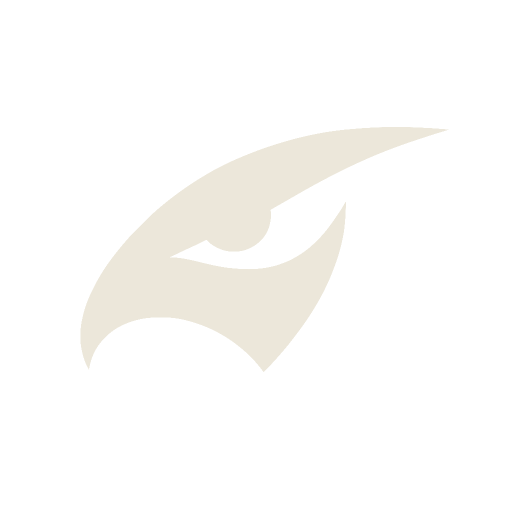
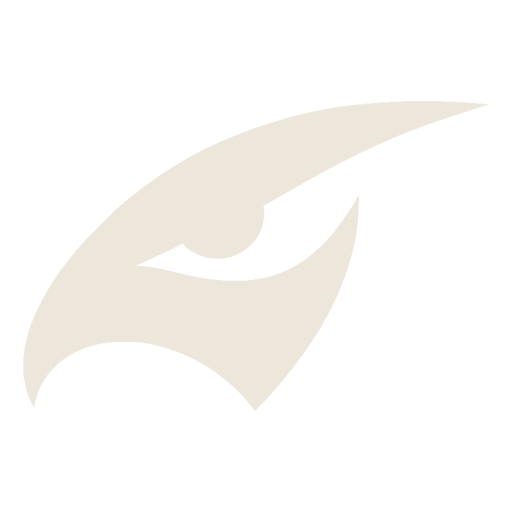
.

Changed region(s): [[0.0312, 0.1875, 0.9375, 0.8125], [0.2812, 0.4688, 0.5938, 0.5625]]

diff --git a/src/screens/auth/authShared.tsx b/src/screens/auth/authShared.tsx
@@ -3,7 +3,7 @@
 // future-provider seam buttons (Google / CAC) — present but deliberately
 // disabled this sprint.
 
-import { useId, useState, type ReactNode } from "react";
+import { useId, useState, type CSSProperties, type ReactNode } from "react";
 import { Logo } from "../../components/Logo";
 import {
   IconAlert,
@@ -31,7 +31,7 @@ export function AuthShell({
     <div className="auth-shell">
       <div className="auth-card reveal">
         <div className="auth-brand">
-          <Logo size={96} />
+          <Logo size={120} />
           <span className="wordmark">Nexus</span>
         </div>
         {(title || subtitle) && (
@@ -148,6 +148,15 @@ export function ProviderSeams({
   busy?: "google" | "apple" | null;
 }) {
   const anyBusy = busy != null;
+  // Pin the "soon" tag to the right edge so the icon + label stay centered in
+  // the button (like the live Google button), rather than being pushed left by
+  // a margin-auto tag.
+  const tagStyle: CSSProperties = {
+    position: "absolute",
+    right: "var(--s3)",
+    top: "50%",
+    transform: "translateY(-50%)",
+  };
   return (
     <>
       <div className="auth-or">or</div>
@@ -155,6 +164,7 @@ export function ProviderSeams({
         <button
           type="button"
           className="btn btn-block"
+          style={{ position: "relative" }}
           onClick={onGoogle}
           disabled={!onGoogle || anyBusy}
           aria-disabled={!onGoogle || anyBusy ? "true" : undefined}
@@ -167,7 +177,7 @@ export function ProviderSeams({
           <IconGoogle />
           {busy === "google" ? "Redirecting to Google…" : "Continue with Google"}
           {!onGoogle && (
-            <span className="tag" style={{ marginLeft: "auto" }}>
+            <span className="tag" style={tagStyle}>
               soon
             </span>
           )}
@@ -175,6 +185,7 @@ export function ProviderSeams({
         <button
           type="button"
           className="btn btn-block"
+          style={{ position: "relative" }}
           onClick={onApple}
           disabled={!onApple || anyBusy}
           aria-disabled={!onApple || anyBusy ? "true" : undefined}
@@ -187,7 +198,7 @@ export function ProviderSeams({
           <IconApple />
           {busy === "apple" ? "Redirecting to Apple…" : "Continue with Apple"}
           {!onApple && (
-            <span className="tag" style={{ marginLeft: "auto" }}>
+            <span className="tag" style={tagStyle}>
               soon
             </span>
           )}
@@ -195,13 +206,14 @@ export function ProviderSeams({
         <button
           type="button"
           className="btn btn-block"
+          style={{ position: "relative" }}
           disabled
           aria-disabled="true"
           title="CAC / PIV sign-in runs at the proxy (mutual TLS + DoD cert chain), not through Supabase. Arrives with the GovCloud backend."
         >
           <IconShield width={18} height={18} />
           Sign in with CAC / PIV
-          <span className="tag" style={{ marginLeft: "auto" }}>
+          <span className="tag" style={tagStyle}>
             soon
           </span>
         </button>

diff --git a/src/screens/Home.tsx b/src/screens/Home.tsx
@@ -15,7 +15,7 @@ export function Home() {
       {/* Hero */}
       <section className="hero reveal">
         <div>
-          <div className="hero-eyebrow">For U.S. Government &amp; Defense cardholders</div>
+          <div className="hero-eyebrow">Automation, anytime, anywhere</div>
           <h1 className="hero-title">
             Upload once,
             <br />

diff --git a/src/index.css b/src/index.css
@@ -1108,8 +1108,8 @@ details.collapsible[open] summary::before {
   display: flex;
   flex-direction: column;
   align-items: center;
-  gap: var(--s3);
-  margin-bottom: var(--s5);
+  gap: var(--s1);
+  margin-bottom: var(--s4);
 }
 
 .auth-brand .wordmark {
